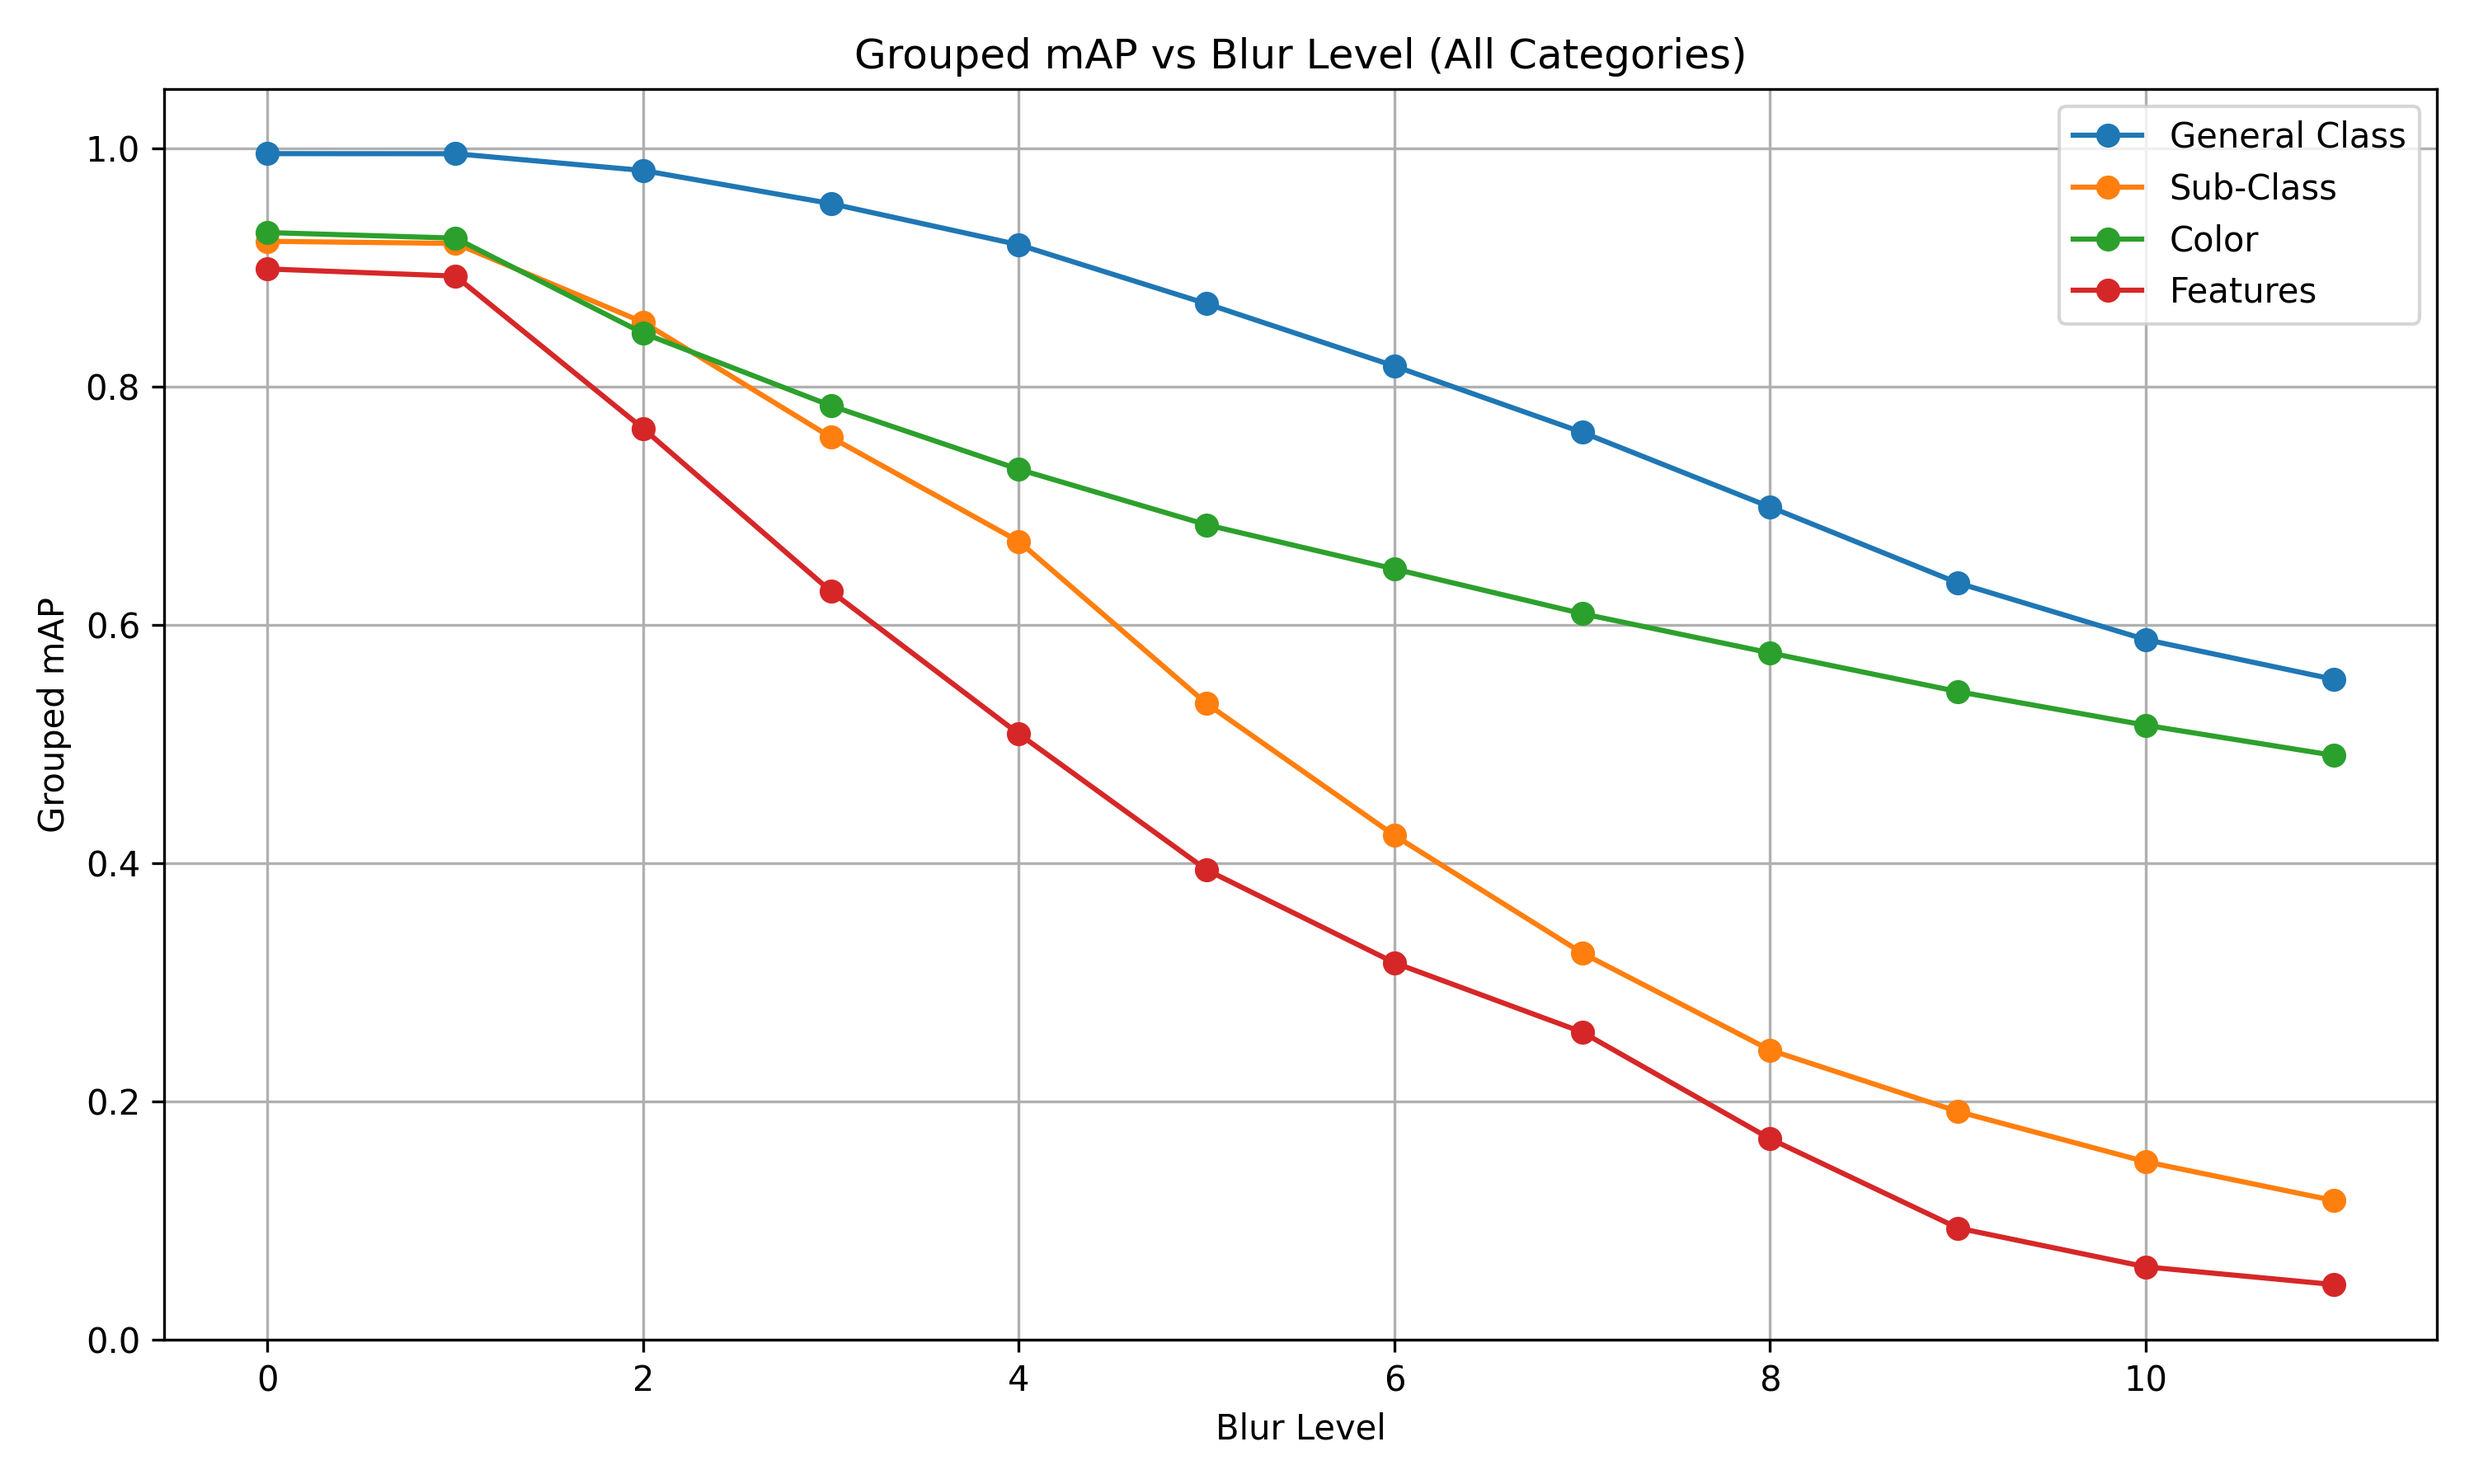
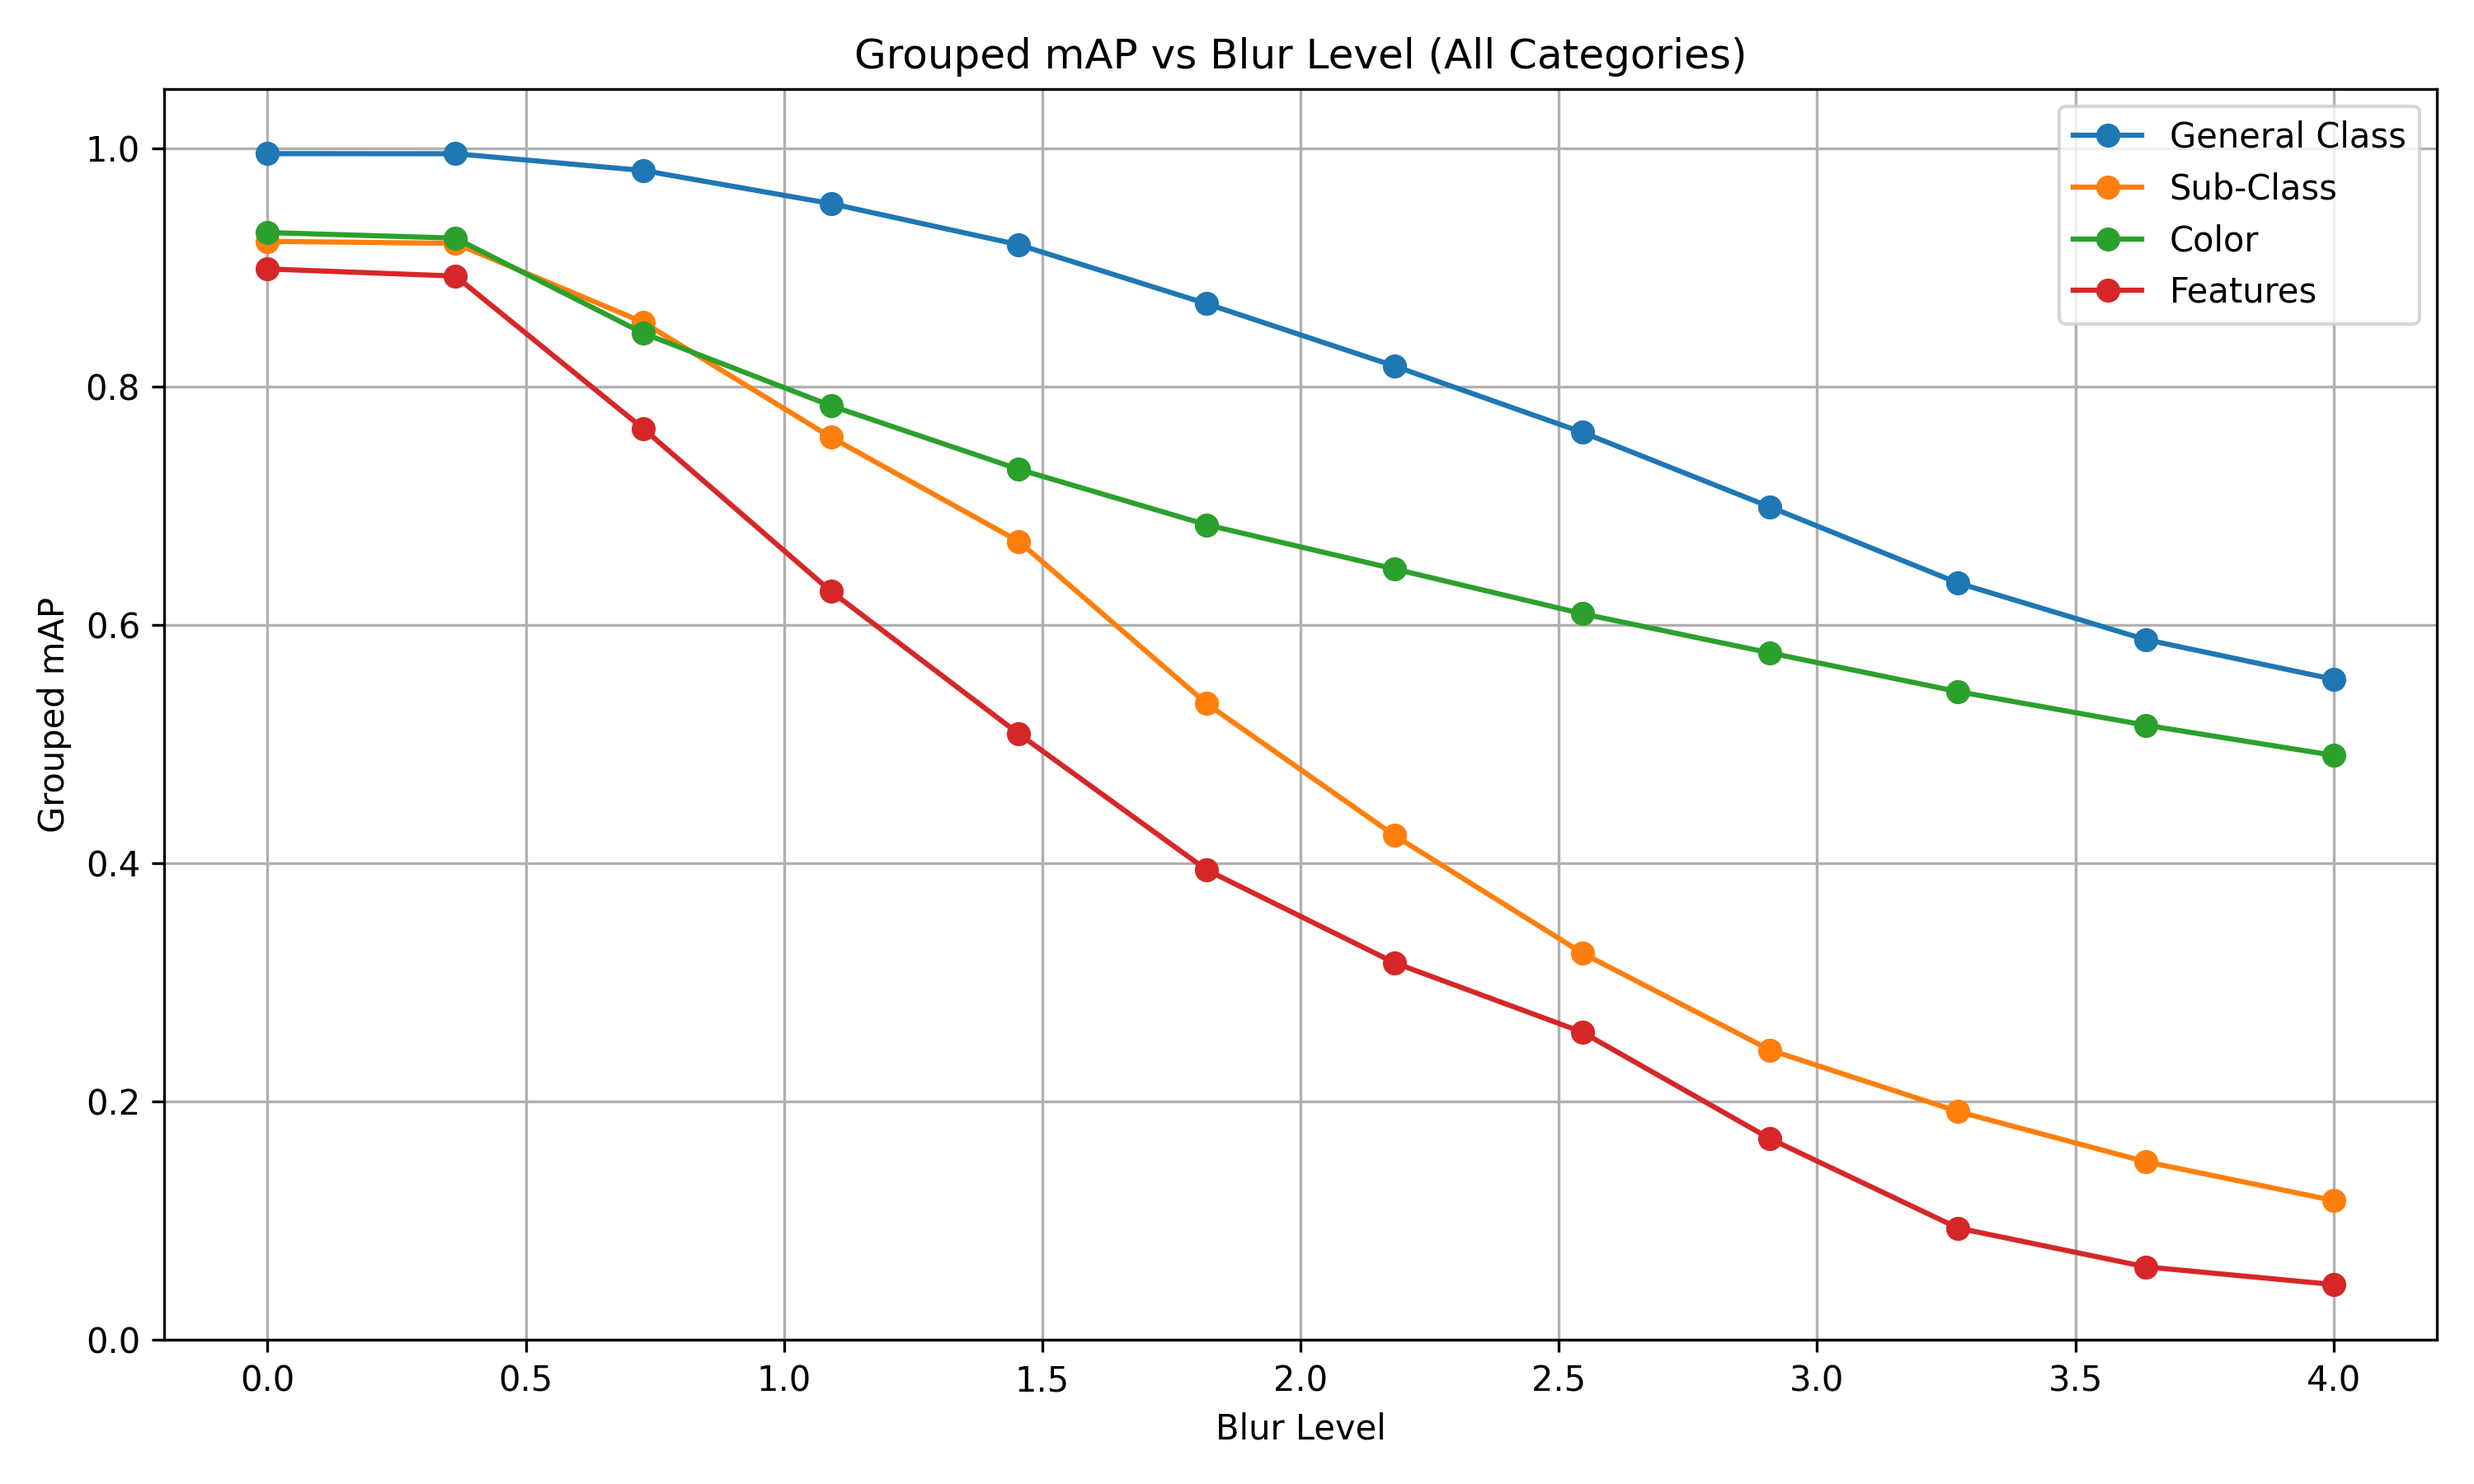
update graph

diff --git a/results/grouped_mAP.py b/results/grouped_mAP.py
@@ -2,11 +2,14 @@ import matplotlib.pyplot as plt
 import numpy as np
 import os
 
+
+
 # Debug: print where file will be saved
 print("Current working directory:", os.getcwd())
 
-# Blur levels 0–11
-blur_levels = np.arange(12)
+# Sigma values for 12 blur levels
+num_levels = 12
+sigmas = np.linspace(0.0, 4.0, num_levels)
 
 # mAP values
 general_map = [0.995777, 0.995713, 0.981622, 0.953830, 0.919275, 0.869777, 0.817436, 0.761823, 0.699140, 0.635385, 0.587840, 0.554515]
@@ -16,10 +19,10 @@ features_map = [0.898982, 0.892999, 0.764957, 0.628311, 0.508676, 0.394489, 0.31
 
 plt.figure(figsize=(10, 6), dpi=300)
 
-plt.plot(blur_levels, general_map, marker="o", label="General Class")
-plt.plot(blur_levels, subclass_map, marker="o", label="Sub-Class")
-plt.plot(blur_levels, color_map, marker="o", label="Color")
-plt.plot(blur_levels, features_map, marker="o", label="Features")
+plt.plot(sigmas, general_map, marker="o", label="General Class")
+plt.plot(sigmas, subclass_map, marker="o", label="Sub-Class")
+plt.plot(sigmas, color_map, marker="o", label="Color")
+plt.plot(sigmas, features_map, marker="o", label="Features")
 
 plt.xlabel("Blur Level")
 plt.ylabel("Grouped mAP")
